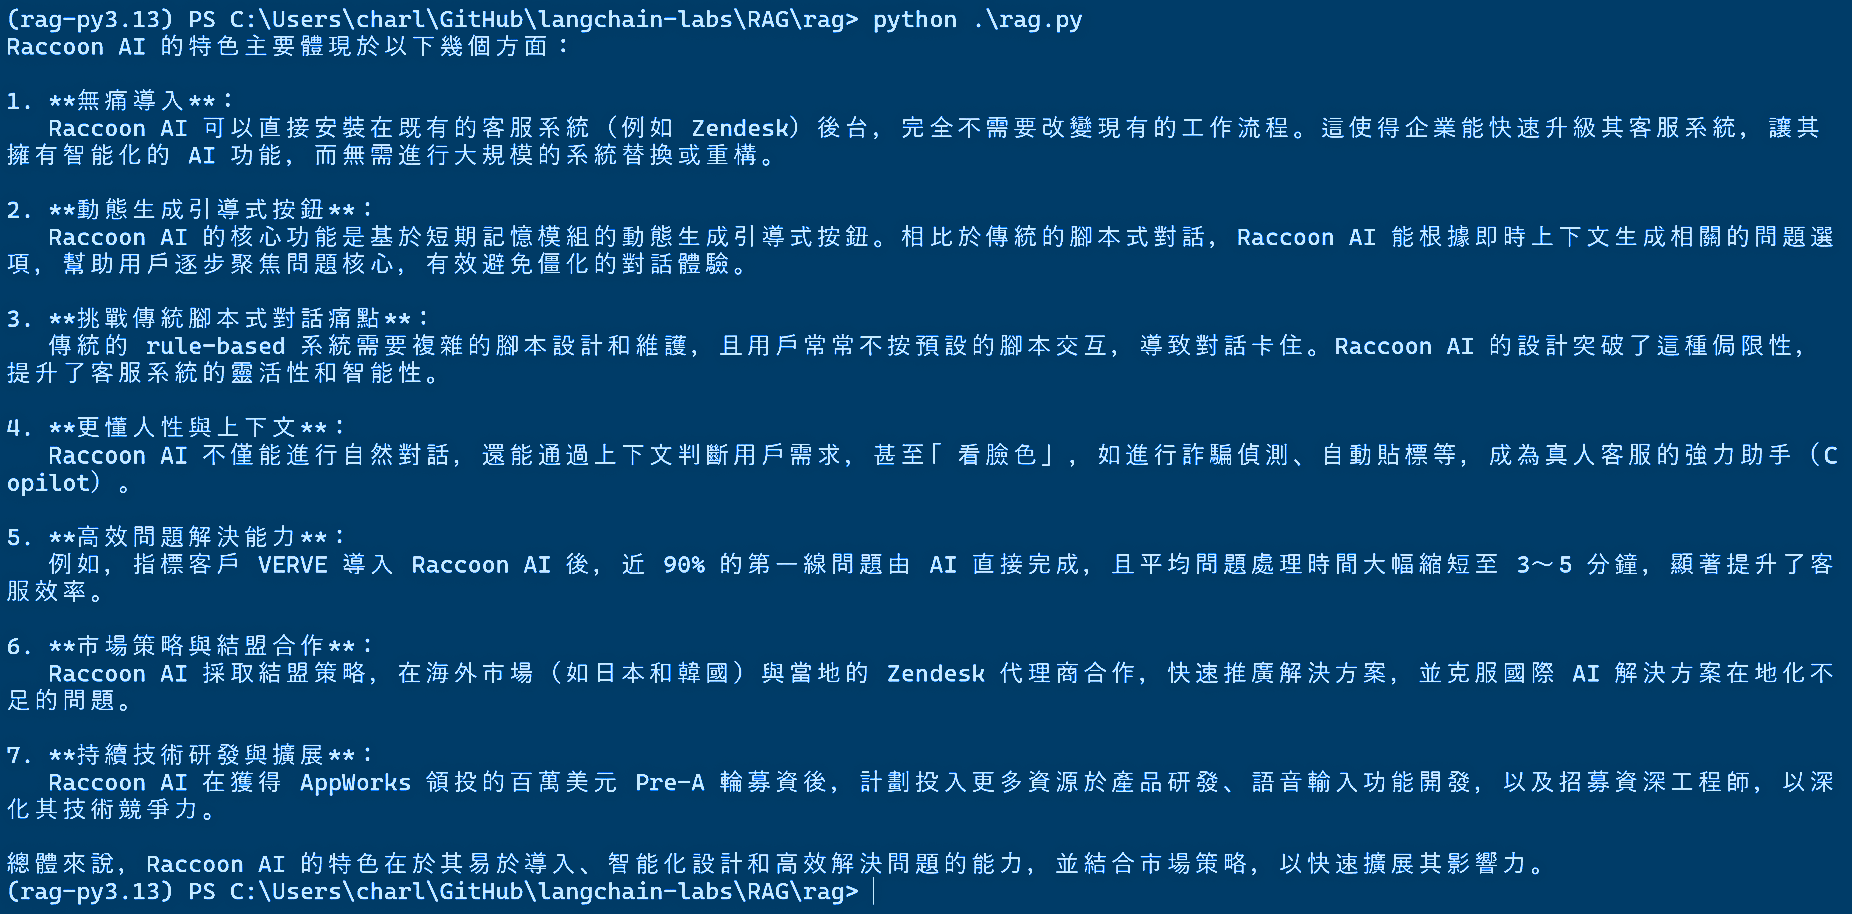
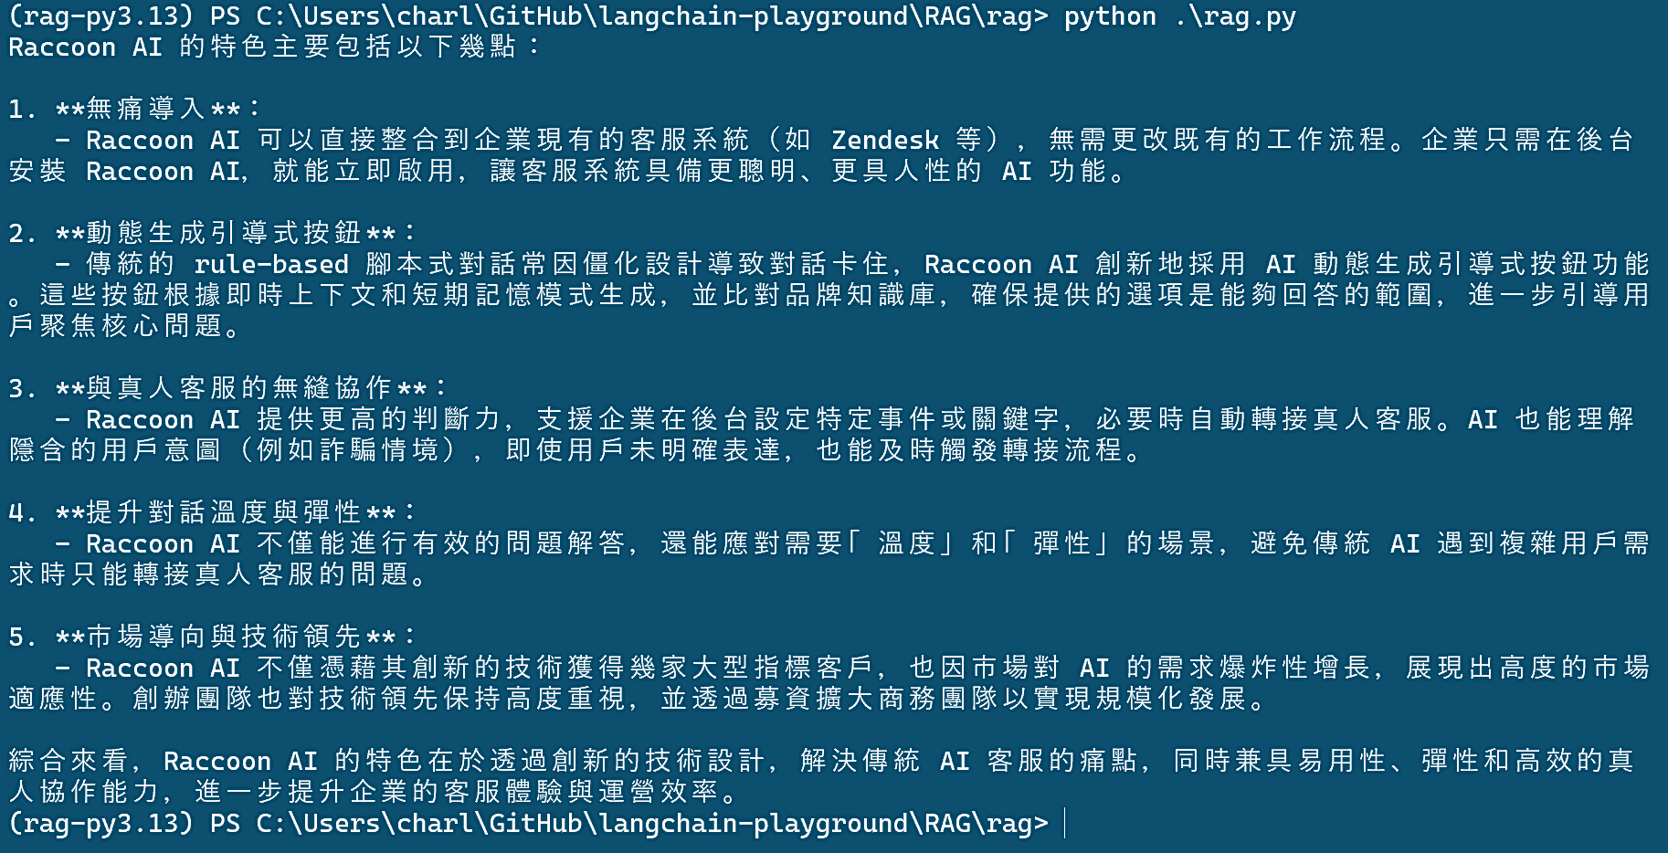
replace screenshot

Changed region(s): [[0.0, 0.0914, 0.9976, 0.5487], [0.0, 0.5791, 0.9976, 1.0], [0.0, 0.0, 0.7794, 0.0914]]

diff --git a/RAG/rag/rag.py b/RAG/rag/rag.py
@@ -90,6 +90,6 @@ qa_chain = (
 
 
 # 步驟 7: 進行查詢
-response = qa_chain.invoke("Raccoon AI 的特色？")
+response = qa_chain.invoke("Raccoon AI 的特色")
 
 print(response)
